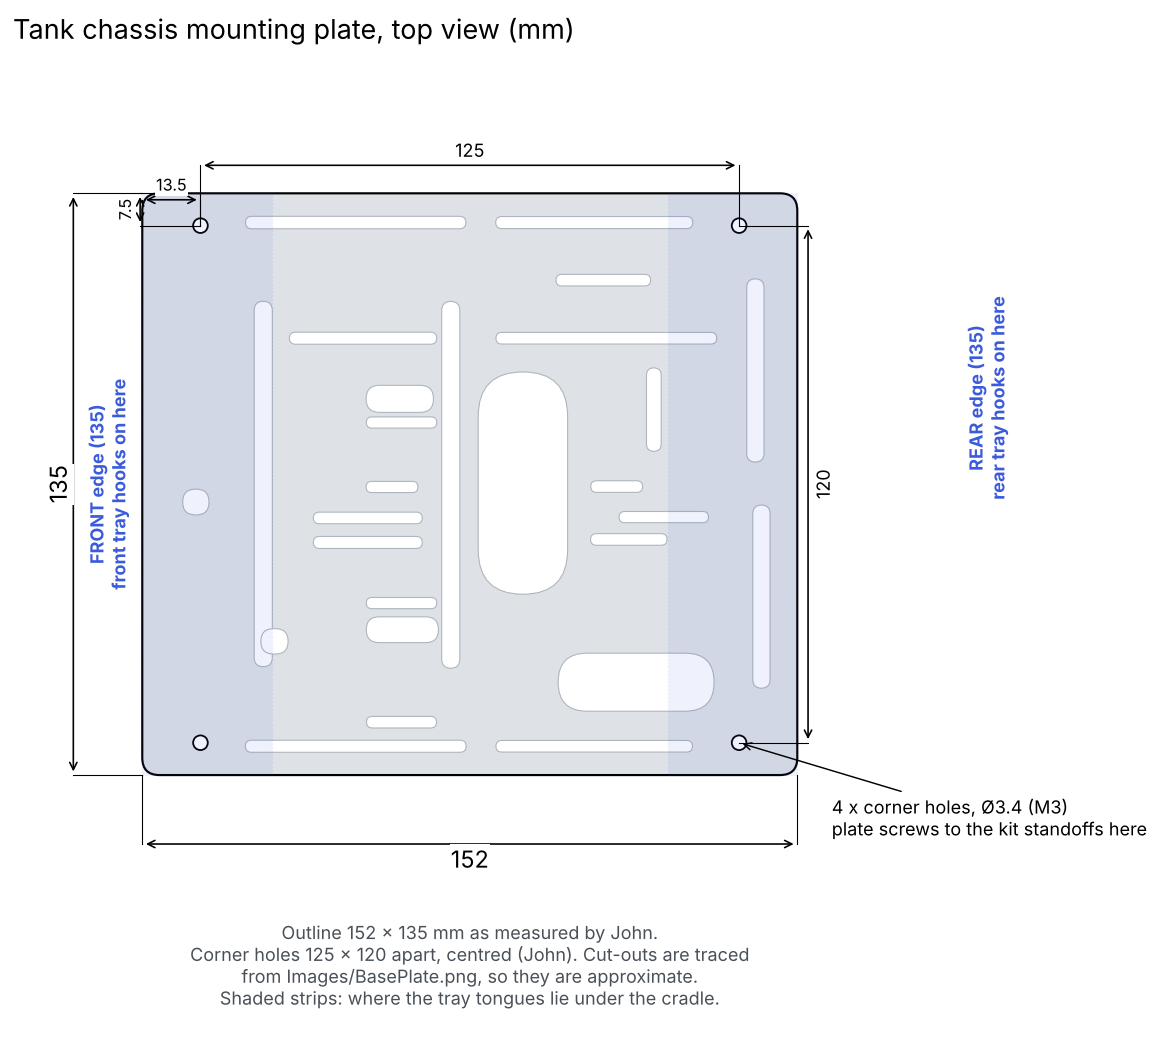
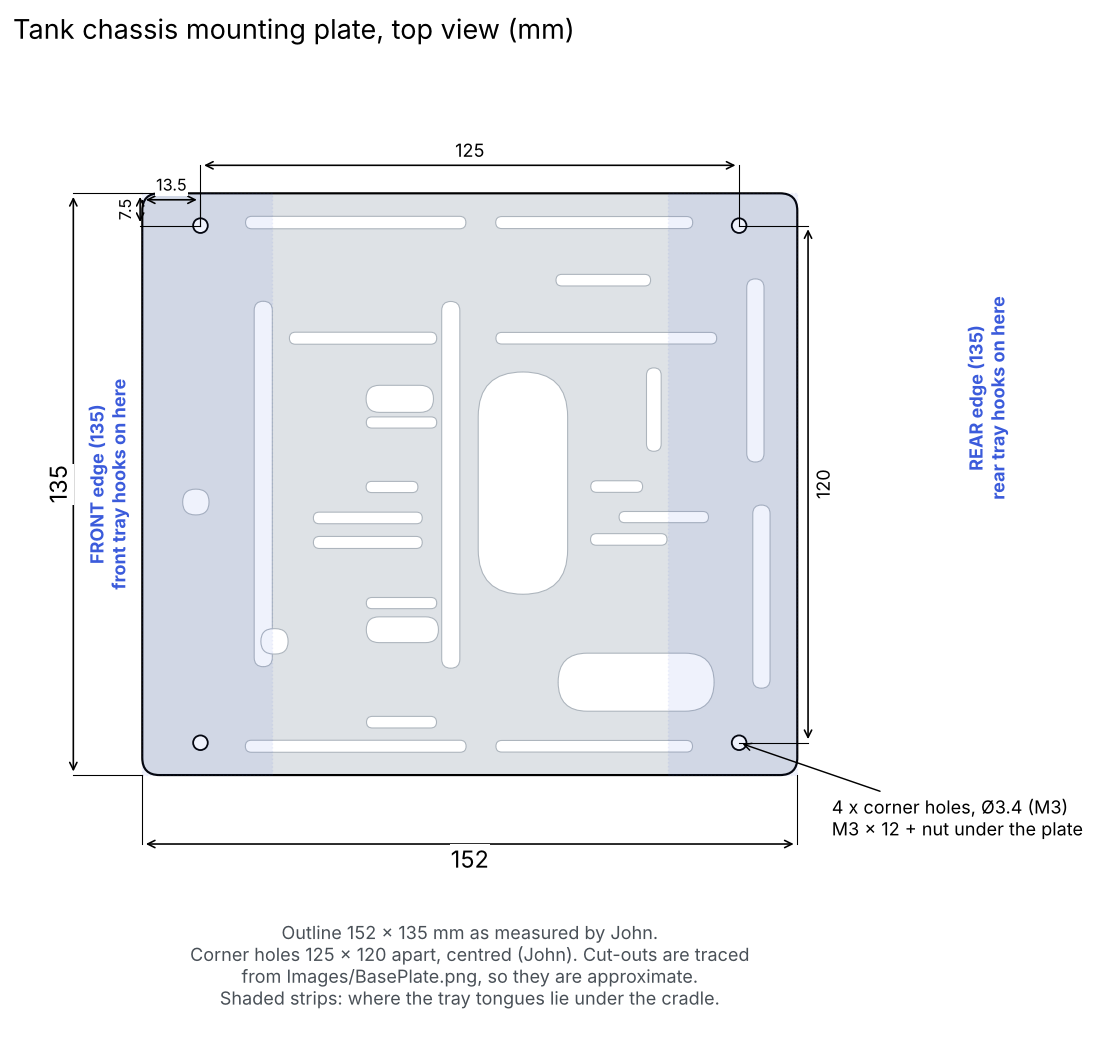
No chassis standoffs: corner screws are M3 x 12 with a nut under the plate
Claude-Session: https://claude.ai/code/session_011AZmCYsDWcDznu3RCMf8yA

diff --git a/CAD/DeckMount/drawings/standoff_drawing.py b/CAD/DeckMount/drawings/standoff_drawing.py
@@ -46,13 +46,13 @@ ax.text(-75, PW / 2 + 4, "front", ha="center", fontsize=11)
 ax.text(PL / 2, -14, "Positions in mm: first number from the plate's FRONT edge (negative = in front of it), second from the bottom long edge.",
         ha="center", fontsize=11, color="#333")
 ax.set_xlim(-82, 240); ax.set_ylim(-22, PW + 26); ax.set_aspect("equal"); ax.axis("off")
-fig.text(0.02, 0.965, "Standoffs: where they go, how tall, which screw (top view)", fontsize=20, fontweight="bold")
+fig.text(0.02, 0.965, "Board standoffs and corner screws: where they go, how tall, which screw (top view)", fontsize=20, fontweight="bold")
 
 leg = fig.add_axes([0.02, 0.02, 0.58, 0.26]); leg.axis("off")
 rows = [(ORANGE, "o", "IBT-2 drivers (8)", "Printed into the front tray. 11 mm tall above the 5 mm tray floor. Slotted so the holes line up.", "M3 x 20 down through board, standoff and floor, nut underneath"),
         (GREEN, "o", "UNO R4 (4)", "Printed into the rear tray. 11 mm tall, round.", "M3 x 20 + nut underneath"),
         (RED, "o", "GPS (4)", "Printed into the rear tray. 11 mm tall, slotted.", "M3 x 20 + nut underneath"),
-        (GREY, "h", "Chassis corner standoffs (4)", "The kit's own metal standoffs under the plate. Nothing to buy or print; keep them as they are.", "Kit screw 4 mm longer (through tray tongue + base + plate)")]
+        (GREY, "h", "Corner holes (4): no standoff needed", "The deck sits flat on the plate. The screw goes through tray tongue 2 + base 2 + plate 3 = 7 mm.", "M3 x 12 + nyloc nut under the plate")]
 for i, (c, mk, name, what, screw) in enumerate(rows):
     y = 0.85 - i * 0.25
     leg.plot([0.01], [y], marker=mk, ms=16, mfc=c, mec="k", transform=leg.transAxes)
@@ -73,7 +73,17 @@ for y0, y1, t in ((0, 5, "tray floor 5"), (5, 16, "standoff 11"), (16, 17.6, "bo
     sx.text(66, (y0 + y1) / 2, t, va="center", fontsize=10)
 sx.text(37, -4.5, "M3 nut", fontsize=10, va="top")
 sx.text(37, 21, "M3 x 20 screw head", fontsize=10)
-sx.set_title("Side view of one board standoff (mm)", fontsize=12, loc="left")
-sx.set_xlim(-2, 95); sx.set_ylim(-8, 26); sx.set_aspect("equal")
+# corner stack: tongue 2 + base 2 + plate 3, nut under
+cx0 = 110
+sx.add_patch(Rectangle((cx0, 0), 30, 3, fc="#adb5bd", ec="k"))        # metal plate
+sx.add_patch(Rectangle((cx0, 3), 30, 2, fc="#e9ecef", ec="k"))        # base
+sx.add_patch(Rectangle((cx0, 5), 30, 2, fc="#c5d0fa", ec="k"))        # tongue
+sx.add_patch(Rectangle((cx0 + 13.5, -5.4), 3, 12.4, fc="#adb5bd", ec="k", alpha=0.6))
+sx.add_patch(Rectangle((cx0 + 11.5, 7), 7, 2, fc="#868e96", ec="k"))
+sx.add_patch(Rectangle((cx0 + 11.5, -2.4), 7, 2.4, fc="#495057", ec="k"))
+sx.text(cx0 + 32, 3.5, "tongue 2\nbase 2\nplate 3", va="center", fontsize=9, linespacing=1.6)
+sx.text(cx0, 12, "Corner: M3 x 12", fontsize=10); sx.text(cx0, -4.5, "nyloc nut under the plate", fontsize=10, va="top")
+sx.set_title("Side views (mm): board standoff, and a corner screw", fontsize=12, loc="left")
+sx.set_xlim(-2, 160); sx.set_ylim(-8, 26); sx.set_aspect("equal")
 fig.savefig(os.path.join(OUT, "20_standoffs.png"), dpi=100, bbox_inches="tight", facecolor="white")
 print("ok")

diff --git a/CAD/DeckMount/drawings/make_drawings.py b/CAD/DeckMount/drawings/make_drawings.py
@@ -92,7 +92,7 @@ def plate_drawing():
     dim(ax, (HX[1], HY[0]), (HX[1], HY[1]), "%.0f" % (HY[1] - HY[0]), off=16, side=-1, fs=10)
     dim(ax, (0, HY[1]), (HX[0], HY[1]), "%.1f" % HX[0], off=6, fs=9)
     dim(ax, (HX[0], PW), (HX[0], HY[1]), "%.1f" % (PW - HY[1]), off=14, side=-1, fs=9)
-    ax.annotate("4 x corner holes, Ø3.4 (M3)\nplate screws to the kit standoffs here",
+    ax.annotate("4 x corner holes, Ø3.4 (M3)\nM3 x 12 + nut under the plate",
                 xy=(HX[1], HY[0]), xytext=(PL + 8, -14), fontsize=10,
                 arrowprops=dict(arrowstyle="->", lw=0.8))
     ax.text(PL / 2, -34, "Outline 152 x 135 mm as measured by John.\n"
@@ -432,7 +432,7 @@ def hole_match_drawing():
         ax.text(PL / 2, PW + 26, "front on the left, rear (hitch end) on the right; hitch heights from the bottom edge", ha="center", fontsize=11, color=GREY)
         ax.set_xlim(-40, PL + 44); ax.set_ylim(-62, PW + 32); ax.set_aspect("equal"); ax.axis("off")
     fig.text(0.05, 0.02,
-             "Green 1-4: corner holes. They must line up: the 4 corner screws go through tray tongue, base and plate into the standoffs (125 x 120 apart).\n"
+             "Green 1-4: corner holes. They must line up: the 4 corner screws go through tray tongue, base and plate, with a nut under the plate (125 x 120 apart).\n"
              "Red H1-H4: hitch bolts. They line up over the plate's two rear slots (only used when the hitch is fitted).\n"
              "No other holes need to line up. The base's other openings are wire and weight-saving cut-outs.",
              fontsize=13, va="bottom")

diff --git a/CAD/DeckMount/README.md b/CAD/DeckMount/README.md
@@ -55,7 +55,7 @@ Source: `hitch.scad`. It works like a small tractor hitch, so any tool swaps by 
 - **Sand rake:** 230 mm wide, 4 mm tines 28 mm long. Its arms reach down so the tines just touch the ground at rest (`ground_z`, 130 mm below the plate top, measured by John). It runs from 8° deeper than that to 28° raised, where the tines are about 37 mm clear of the ground, for turns. The rake bar sits about 40 mm behind the end of the tracks. The servo sets the depth. At full drag (about 20 N, which is about all the tracks can pull) it needs about 2.1 N·m, under two thirds of the servo's 3.4 N·m, so feed the servo 6 to 7.4 V rather than 5 V.
 - **Trailer:** the drawbar hangs on the same two pins and is held level by the link. A 6 mm vertical swivel pin at its back end takes the trailer's tongue eye. The mower trailer in the render is a stand-in.
 
-**Fit to the real chassis:** the lower chassis runs on 100 mm past the plate's rear edge with its top 30 mm below the plate (John). Nothing on the hitch goes lower than 27 mm below the plate, so it rides 3 mm above that part. The lower pins sit 38 mm behind its end. The clamp under the plate is 79 mm wide so it misses the corner standoffs.
+**Fit to the real chassis:** the lower chassis runs on 100 mm past the plate's rear edge with its top 30 mm below the plate (John). Nothing on the hitch goes lower than 27 mm below the plate, so it rides 3 mm above that part. The lower pins sit 38 mm behind its end. The clamp under the plate stops short of the corner screws' nuts.
 
 **Mounting to the metal:** a clamp sits under the plate's rear edge. 4x countersunk M3 x 16 go down through the rear tray's tongue, the cradle's end and the plate's two long rear slots into nuts in the clamp. They sit flush, so the battery stands on them. The rear tray floor is screwed down onto the hitch beam with 2x countersunk M3 x 12, so knocks on the rear tray also go into the plate.
 
@@ -71,8 +71,8 @@ Source: `hitch.scad`. It works like a small tractor hitch, so any tool swaps by 
 | `hitch_drawbar.stl` | 1 | Trailer adapter |
 
 **Check before printing the hitch:**
-- The plate's rear slots are now measured (John, 2026-11-25): centre line 10 mm in from the rear edge, slots at 20 to 62 and 82 to 127 mm from the long edge. The 4 bolts sit at 26, 56, 86 and 108 mm. The clamp sits behind the rear corner standoffs (13.5 mm in) and between them (7.5 mm in from each side). `images/15_measure_rear_slots.png` shows them. The slots are 4 mm wide, so M3 screws pass with room to spare.
-- That nothing sits under the plate's rear 22 mm between the corner standoffs, above the lower chassis.
+- The plate's rear slots are now measured (John, 2026-11-25): centre line 10 mm in from the rear edge, slots at 20 to 62 and 82 to 127 mm from the long edge. The 4 bolts sit at 26, 56, 86 and 108 mm. The clamp stays clear of the rear corner screws' nuts (13.5 mm in, 7.5 mm from each side). `images/15_measure_rear_slots.png` shows them. The slots are 4 mm wide, so M3 screws pass with room to spare.
+- That nothing sits under the plate's rear 17 mm, above the lower chassis.
 - The plate thickness is 3 mm (measured).
 
 ## GPS antenna pod

diff --git a/CAD/DeckMount/ASSEMBLY.md b/CAD/DeckMount/ASSEMBLY.md
@@ -33,7 +33,7 @@ For a slick finish on the casing (hood and covers), use matte black PETG at 0.16
 
 | What | Qty | Used for |
 |---|---|---|
-| M3 screws, 4 mm longer than the kit's plate screws | 4 | Corners: tray tongue + base + plate into the kit standoffs |
+| M3 x 12 + nyloc nut | 4 | Corners: down through tray tongue + base + plate, nut under the plate (no standoffs) |
 | M3 x 20 + nut | 16 | 8 for the IBT-2s, 4 for the UNO, 4 for the GPS |
 | M3 x 10 + nut | 3 | Antenna pod to the rear cover (nuts inside the cover) |
 | 1/4-20 x 1/2" button-head bolt | 1 | Up through the pod lid into the antenna plate's welded nut |
@@ -48,7 +48,7 @@ For a slick finish on the casing (hood and covers), use matte black PETG at 0.16
 
 ## 3. Prepare the chassis
 
-1. Take out the 4 screws that hold the metal plate's corners to the chassis standoffs. Leave the plate in place.
+1. Check that you can reach under the plate's 4 corner holes to hold a nut. Nothing else needs to come off.
 2. Feed both motors' wires up through the slots near the plate's long edges. Those slots end up under the hood.
 
 ## 4. Base and trays
@@ -59,7 +59,7 @@ For a slick finish on the casing (hood and covers), use matte black PETG at 0.16
 
 1. Set the **base** on the plate, flat bottom down, with its corner holes over the plate's corner holes. The cradle walls run front to back.
 2. Lay the **front tray's** tongue into the 2 mm pocket at the front end of the base, so the tray hangs out over the front. Lay the **rear tray's** tongue into the rear pocket. Each tongue sits flush with the base floor.
-3. Push the 4 longer corner screws down through tongue, base and plate into the standoffs. Snug them up but don't crush the plastic.
+3. Push the 4 M3 x 12 corner screws down through tongue, base and plate, and tighten a nyloc nut on each from under the plate. Snug them up but don't crush the plastic.
    - If you're fitting the hitch, leave the rear tray off for now (see step 6).
 
 ## 5. Electronics on the trays
